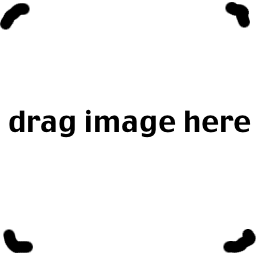
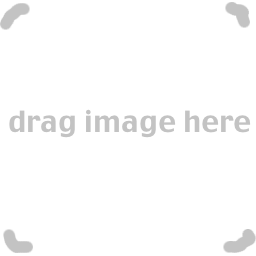
dragenter, dragleave

diff --git a/atkinson.js b/atkinson.js
@@ -40,8 +40,15 @@
     };
     imagewell.addEventListener("dragover", __bind(function(event) {
       event.stopPropagation();
-      return event.preventDefault();
+      event.preventDefault();
+      return imagewell.src = "default-hover.png";
     }, this), false);
+    imagewell.addEventListener("dragenter", function(event) {
+      return imagewell.src = "default-hover.png";
+    }, false);
+    imagewell.addEventListener("dragleave", function(event) {
+      return imagewell.src = "default.png";
+    }, false);
     imagewell.addEventListener("drop", __bind(function(event) {
       var file, reader;
       event.stopPropagation();
@@ -56,10 +63,9 @@
       };
       return reader.readAsDataURL(file);
     }, this), false);
-    imagewell.addEventListener("dragstart", __bind(function(event) {
+    return imagewell.addEventListener("dragstart", __bind(function(event) {
       event.dataTransfer.setData("DownloadURL", imagewell.src);
       return event.dataTransfer.setData("text/plain", imagewell.src);
     }, this), false);
-    return draw("default.png");
   }, false);
 }).call(this);

diff --git a/index.html b/index.html
@@ -16,7 +16,6 @@
 <body>
 
   <h1>Atkinson dithering</h1>
-  <!--<div id="imagewell" width="256" height="256">drop image here to start</div>-->
   <img src="default.png" id="imagewell">
 
 <p>This is an implementation of the classic Macintosh 1-bit filter, as used by <a href="http://www.tinrocket.com/software/hyperdither/">Hyperdither</a></p> 
